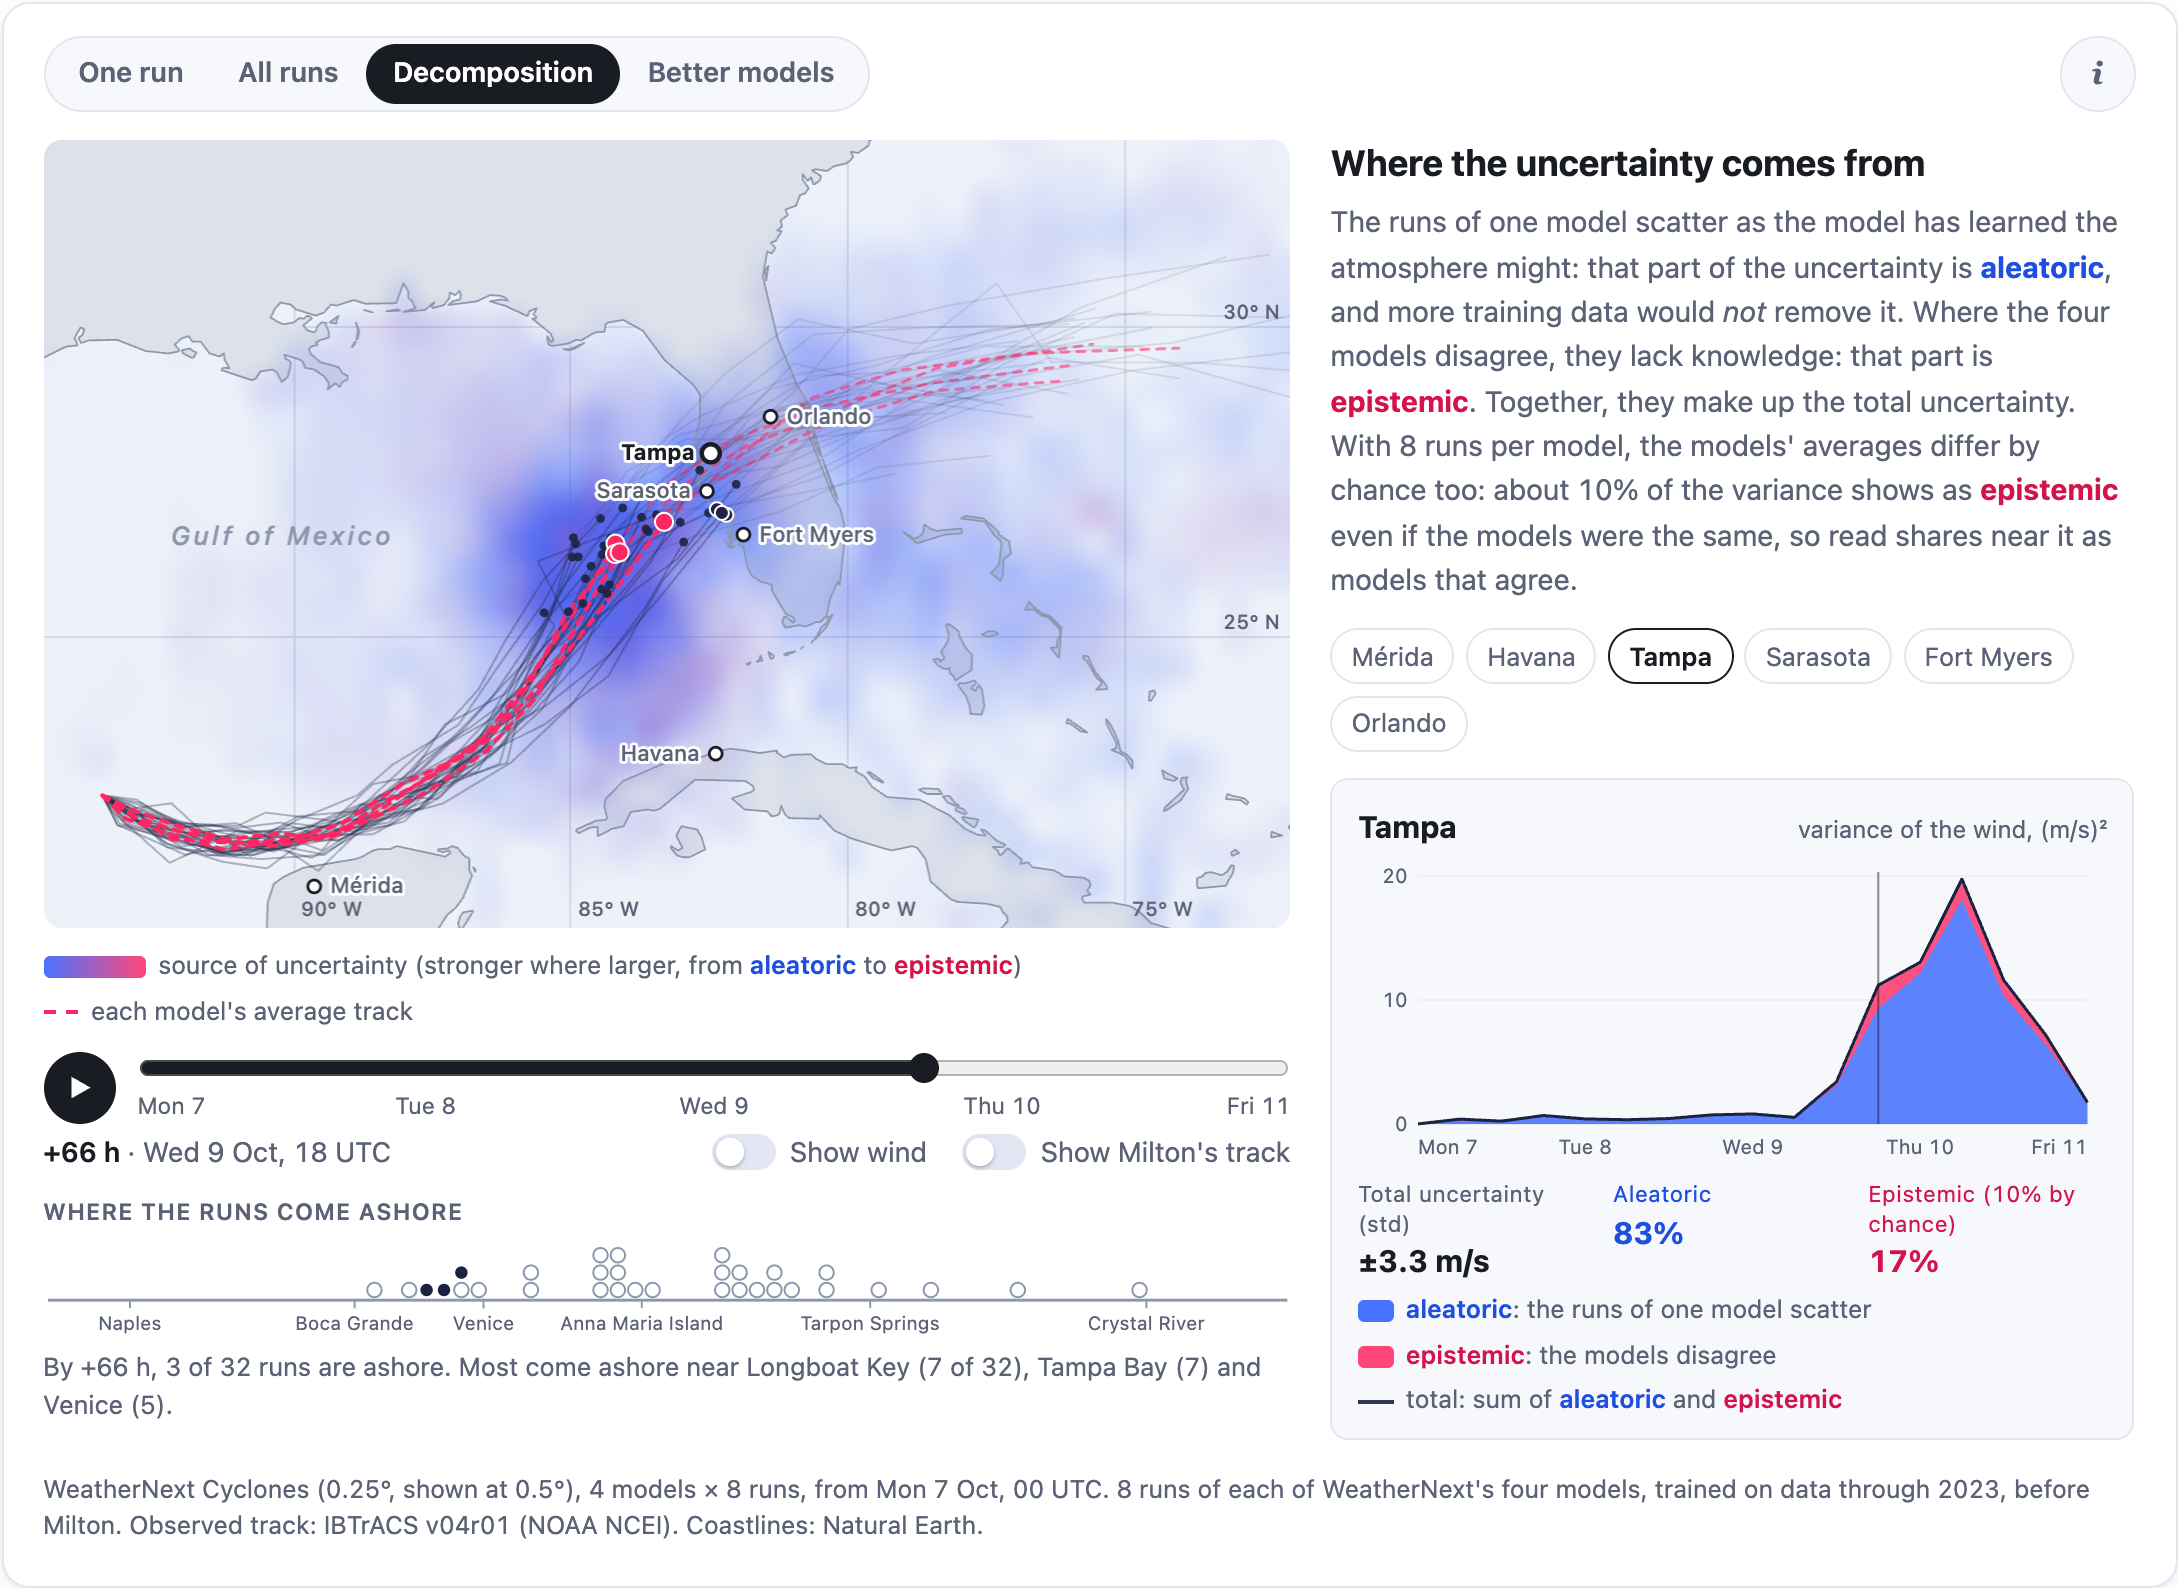
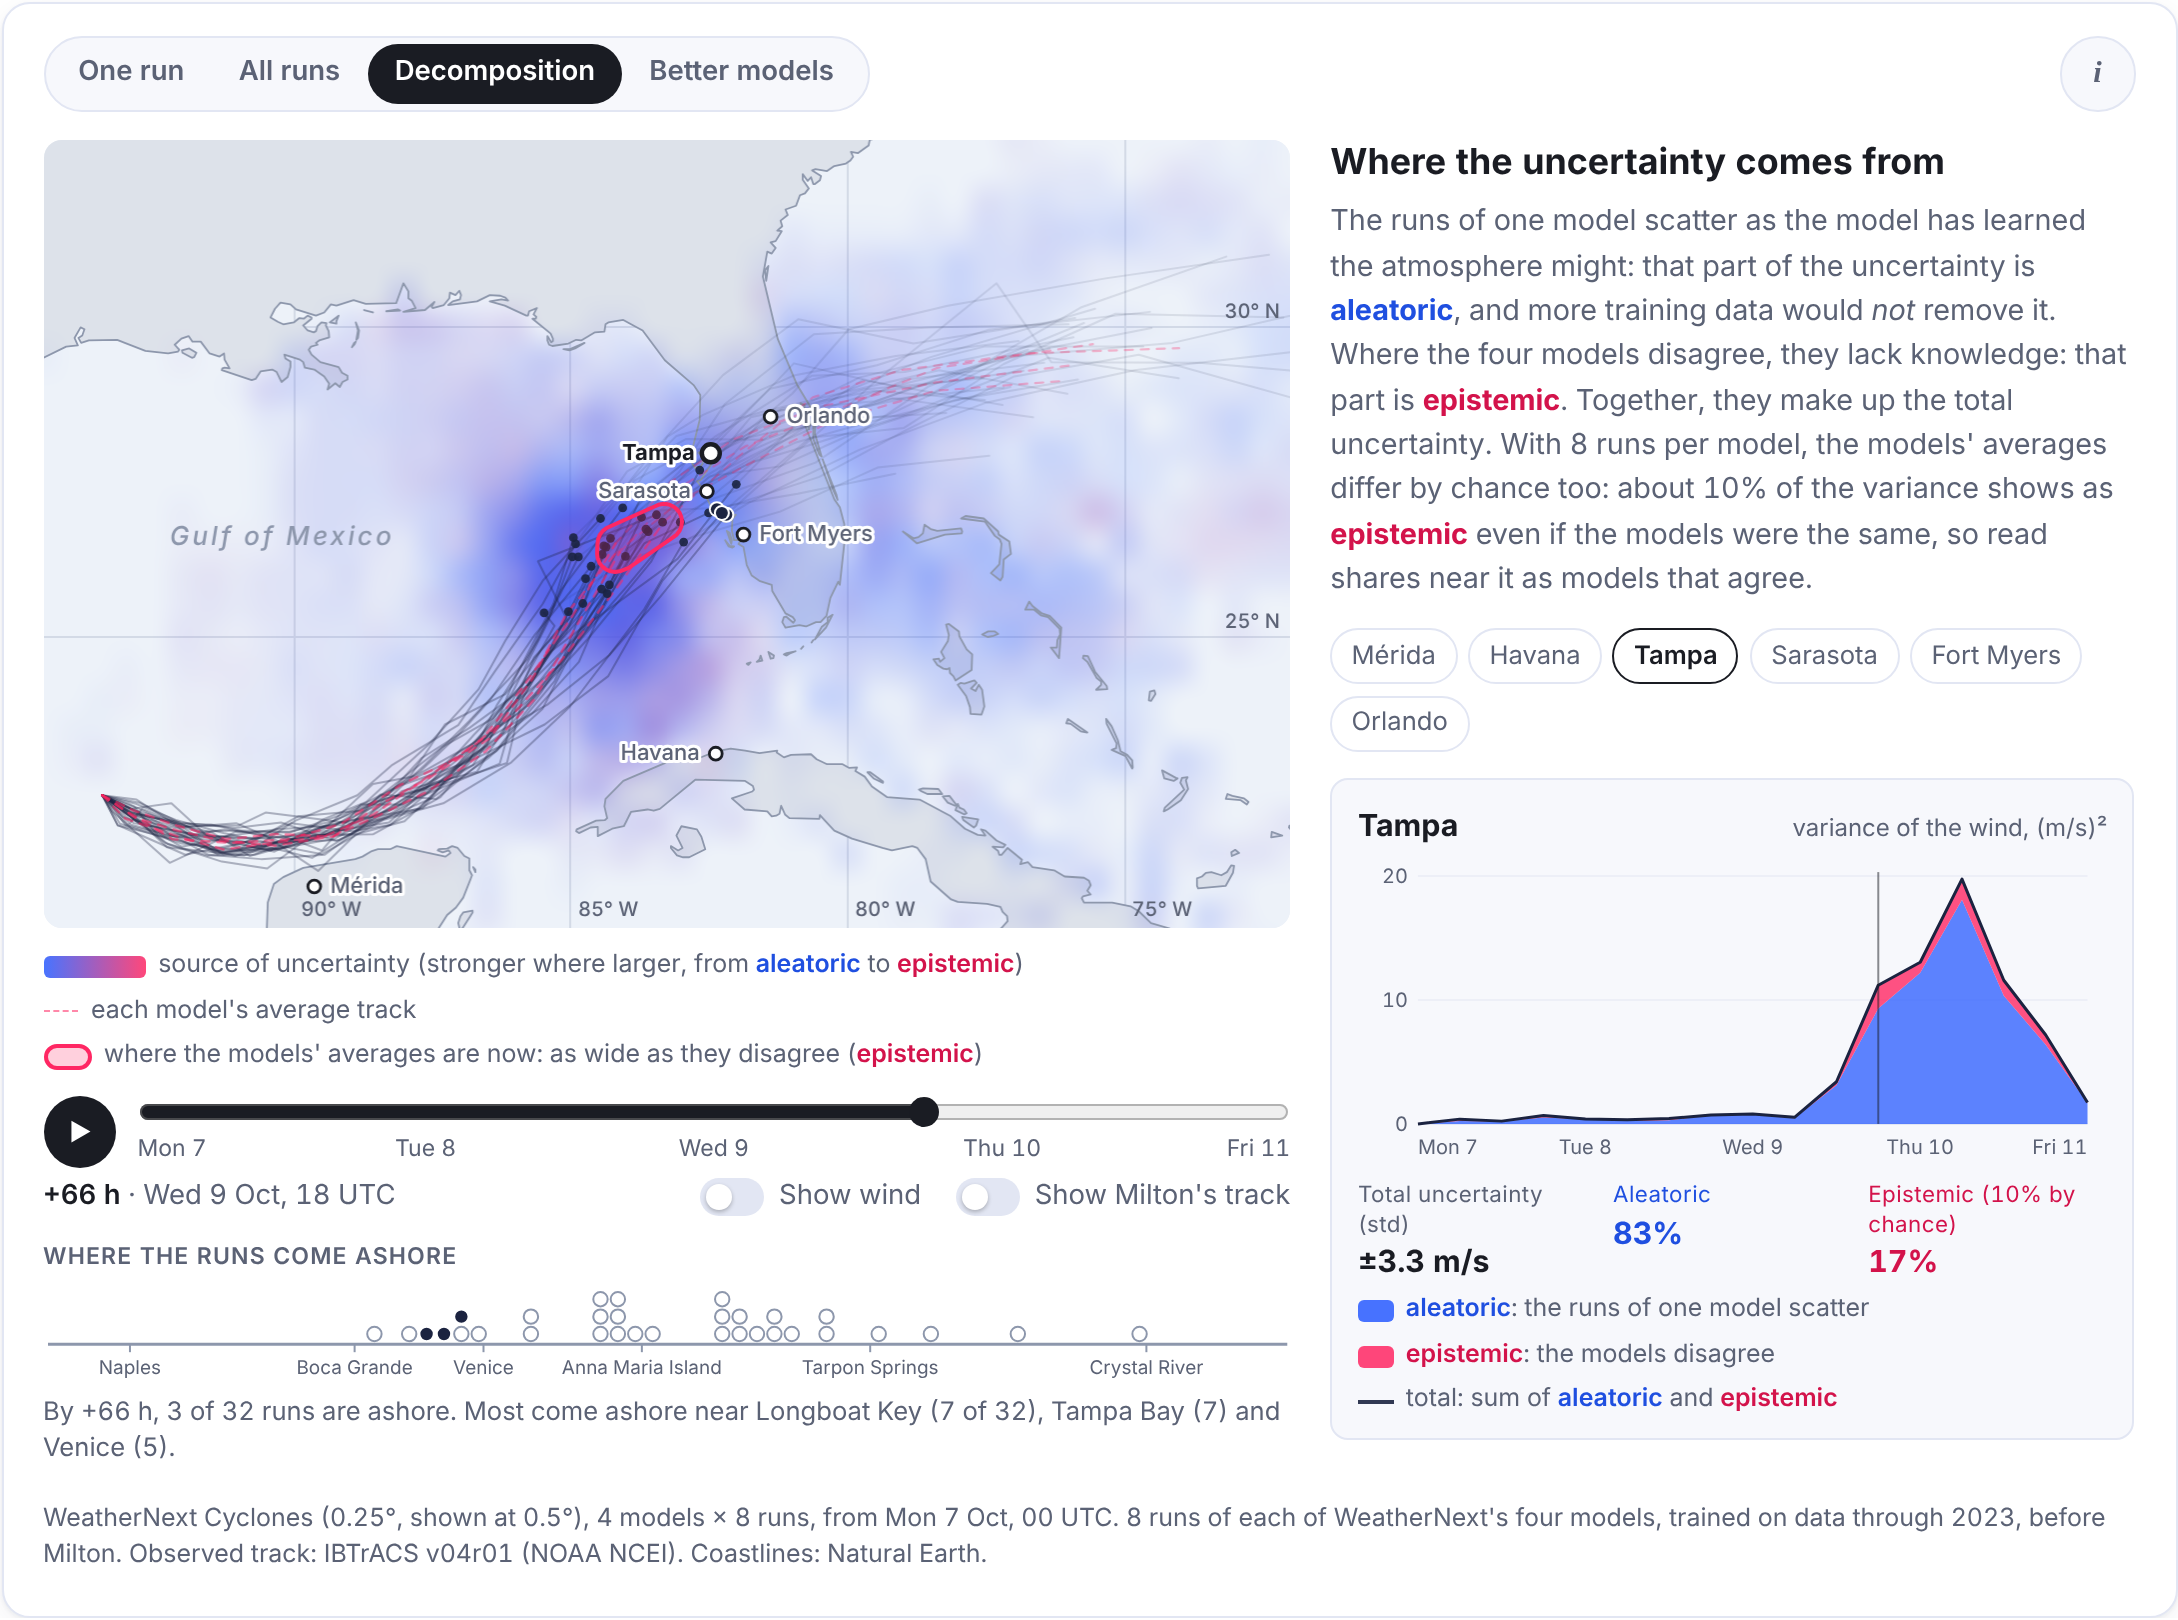
Docs: the models' averages as one bean in Decomposition and Better models
Where the four models' averages are at the hour shown is now one shape,
a red outlined bean around their positions, instead of four dots: as
wide as the averages lie apart, which is the epistemic part. In Better
models it shrinks with the models coming to agree, to a small round
spot. The average tracks stay, quiet, behind it.

Claude-Session: https://claude.ai/code/session_019qiuyDKNRuYRdhX6wyyP83

diff --git a/docs/source/demos/milton/assets/demo.js b/docs/source/demos/milton/assets/demo.js
@@ -859,13 +859,14 @@
         // how far the models' averages lie apart is what they disagree on
         const means = state.view === "ensemble" ? [] : meanTracks().map((mean, group) => moved(mean, group, share));
         context.setLineDash([4, 4]);
+        // quiet, behind the bean of where the averages are now
         for (const mean of means) {
-          context.lineWidth = 1.5;
-          context.strokeStyle = rgba(colors.red, 0.55);
+          context.lineWidth = 1.1;
+          context.strokeStyle = rgba(colors.red, 0.3);
           path(mean, hours, last);
           context.stroke();
-          context.lineWidth = 2;
-          context.strokeStyle = rgba(colors.red, 1);
+          context.lineWidth = 1.25;
+          context.strokeStyle = rgba(colors.red, 0.55);
           path(mean, 0, hours);
           context.stroke();
         }
@@ -881,11 +882,45 @@
             dot(run.landfall.lat, run.landfall.lon, 3, rgba(colors.ink, 1), colors.surface);
           }
         }
-        for (const mean of means) {
-          const [lat, lon] = position(mean, hours);
-          dot(lat, lon, 4, rgba(colors.red, 1), colors.surface);
+        if (means.length) bean(means.map((mean) => position(mean, hours)));
+      }
+    };
+    // where the models' averages are now, as one shape, a "bean": the round hull of their positions,
+    // as wide as they lie apart, which is the epistemic part; when they agree, it is a small round spot
+    const bean = (positions) => {
+      const radius = 9;
+      const rim = [];
+      for (const [lat, lon] of positions) {
+        for (let k = 0; k < 24; k += 1) {
+          const angle = (k / 24) * Math.PI * 2;
+          rim.push([x(lon) + radius * Math.cos(angle), y(lat) + radius * Math.sin(angle)]);
         }
       }
+      const outline = roundHull(rim);
+      context.beginPath();
+      outline.forEach(([px, py], i) => (i ? context.lineTo(px, py) : context.moveTo(px, py)));
+      context.closePath();
+      context.fillStyle = rgba(colors.red, 0.22);
+      context.fill();
+      context.lineJoin = "round";
+      context.lineWidth = 2;
+      context.strokeStyle = rgba(colors.red, 1);
+      context.stroke();
+    };
+    // the convex hull of points (Andrew's monotone chain)
+    const roundHull = (points) => {
+      const sorted = [...points].sort((a, b) => a[0] - b[0] || a[1] - b[1]);
+      const turn = (o, a, b) => (a[0] - o[0]) * (b[1] - o[1]) - (a[1] - o[1]) * (b[0] - o[0]);
+      const half = (list) => {
+        const out = [];
+        for (const point of list) {
+          while (out.length >= 2 && turn(out[out.length - 2], out[out.length - 1], point) <= 0) out.pop();
+          out.push(point);
+        }
+        out.pop();
+        return out;
+      };
+      return [...half(sorted), ...half([...sorted].reverse())];
     };
     const observed = () => {
       const hours = state.hours;
@@ -1603,14 +1638,16 @@
             word("aleatoric"),
             " uncertainty, stronger where larger",
           ]),
-          item(line(rgba(colors.red, 1), false, true), `the ${counted()}' averages, made to agree`),
+          item(line(rgba(colors.red, 0.55), true, true), `the ${counted()}' average tracks, made to agree`),
+          item(swatch("bean"), "where their averages are now: together, once they agree"),
         );
       } else {
         // the map's shade: how large the uncertainty is, and its color, which kind it mostly is
         const ramp = `linear-gradient(90deg, ${rgba(colors.blue, 0.85)}, ${rgba(split(0.5), 0.85)}, ${rgba(colors.red, 0.85)})`;
         items.push(
           item(swatch("ramp", ramp), ["source of uncertainty (stronger where larger, from ", word("aleatoric"), " to ", word("epistemic"), ")"]),
-          item(line(rgba(colors.red, 1), false, true), "each model's average track"),
+          item(line(rgba(colors.red, 0.55), true, true), "each model's average track"),
+          item(swatch("bean"), ["where the models' averages are now: as wide as they disagree (", word("epistemic"), ")"]),
         );
         if (state.wind) items.push(item(line(ink(0.42)), "where any run has tropical-storm-force wind (34 kt)"));
       }

diff --git a/docs/source/demos/milton/assets/demo.css b/docs/source/demos/milton/assets/demo.css
@@ -831,6 +831,16 @@ span.milton-demo-epistemic {
   width: 3.2rem;
 }
 
+/* the models' averages, as on the map: a red outline around a light red */
+.milton-demo-legend i.bean {
+  box-sizing: border-box;
+  width: 1.5rem;
+  height: 0.85rem;
+  border: 2px solid var(--md-red);
+  border-radius: 999px;
+  background: color-mix(in srgb, var(--md-red) 22%, transparent);
+}
+
 .milton-demo-note {
   margin: 1rem 0 0;
   color: var(--md-muted);
